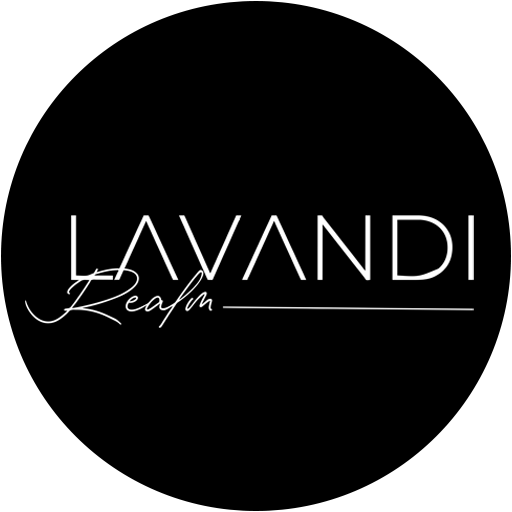
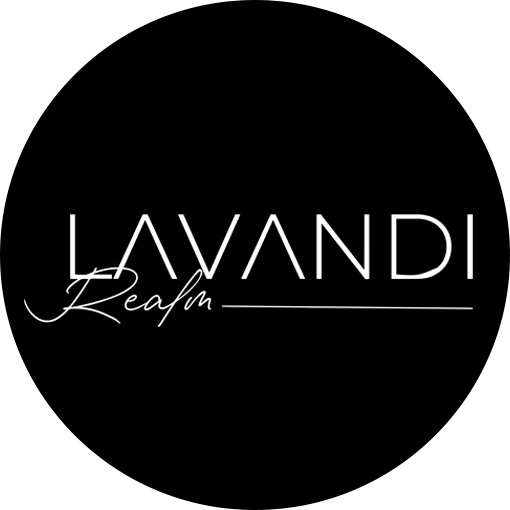
edit fav icn size 36x36

diff --git a/src/components/HelmetSEO.jsx b/src/components/HelmetSEO.jsx
@@ -7,7 +7,13 @@ export default function HelmetSEO() {
 
       <meta
         name="description"
-        content="Lavandi oferuje profesjonalne masaże w Warszawie: relaksacyjny, klasyczny, limfodrenaż, sportowy, antycellulitowy, twarzy oraz masaż autorski. Umów się online i poczuj ulgę i odprężenie."
+        content="Lavandi – Najlepszy masaż w Warszawie 🌟
+Zanurz się w atmosferze relaksu i troski o siebie. W Lavandi czekają na Ciebie profesjonalne masaże, które naprawdę działają: relaksacyjny, klasyczny, sportowy, limfatyczny, antycellulitowy, masaż twarzy oraz unikalny masaż autorski, dopasowany do Twoich indywidualnych potrzeb.
+
+Nie tylko masujemy – uwalniamy od napięcia, przywracamy równowagę i lekkość.
+Umów się online i poczuj różnicę już po pierwszej wizycie.
+
+"
       />
       <meta
         name="keywords"

diff --git a/index.html b/index.html
@@ -3,7 +3,7 @@
 
 <head>
   <meta charset="UTF-8" />
-  <link rel="icon" type="image/svg+xml" href="/lavandi-fav.png" />
+  <link rel="icon" type="image/svg+xml" href="/lav-fav-36.png" />
   <link rel="preconnect" href="https://fonts.googleapis.com" />
   <link rel="canonical" href="https://lavandi.pl/" />
 
